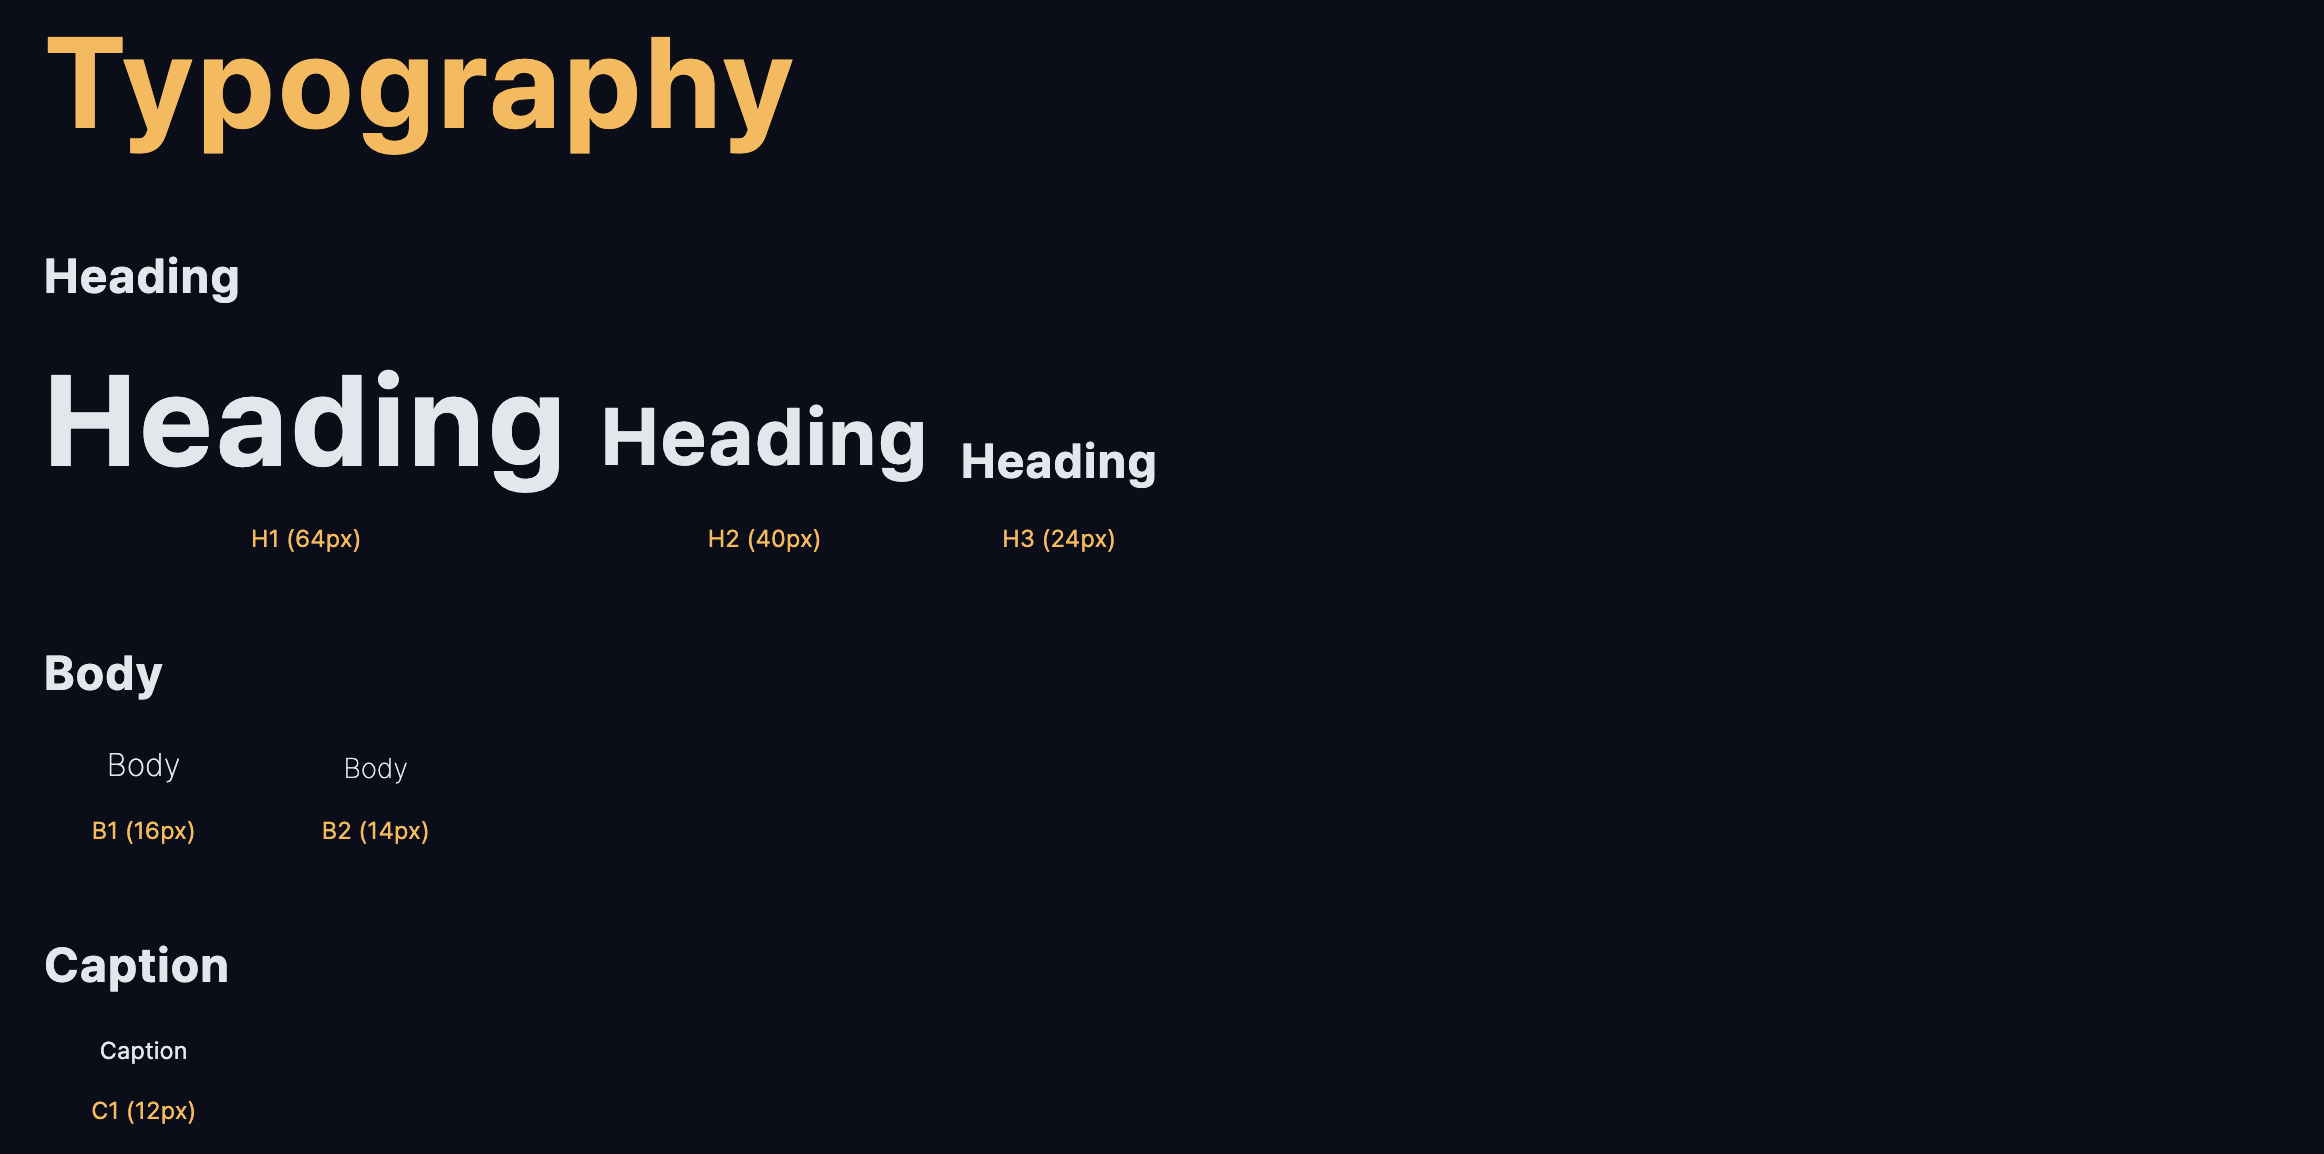
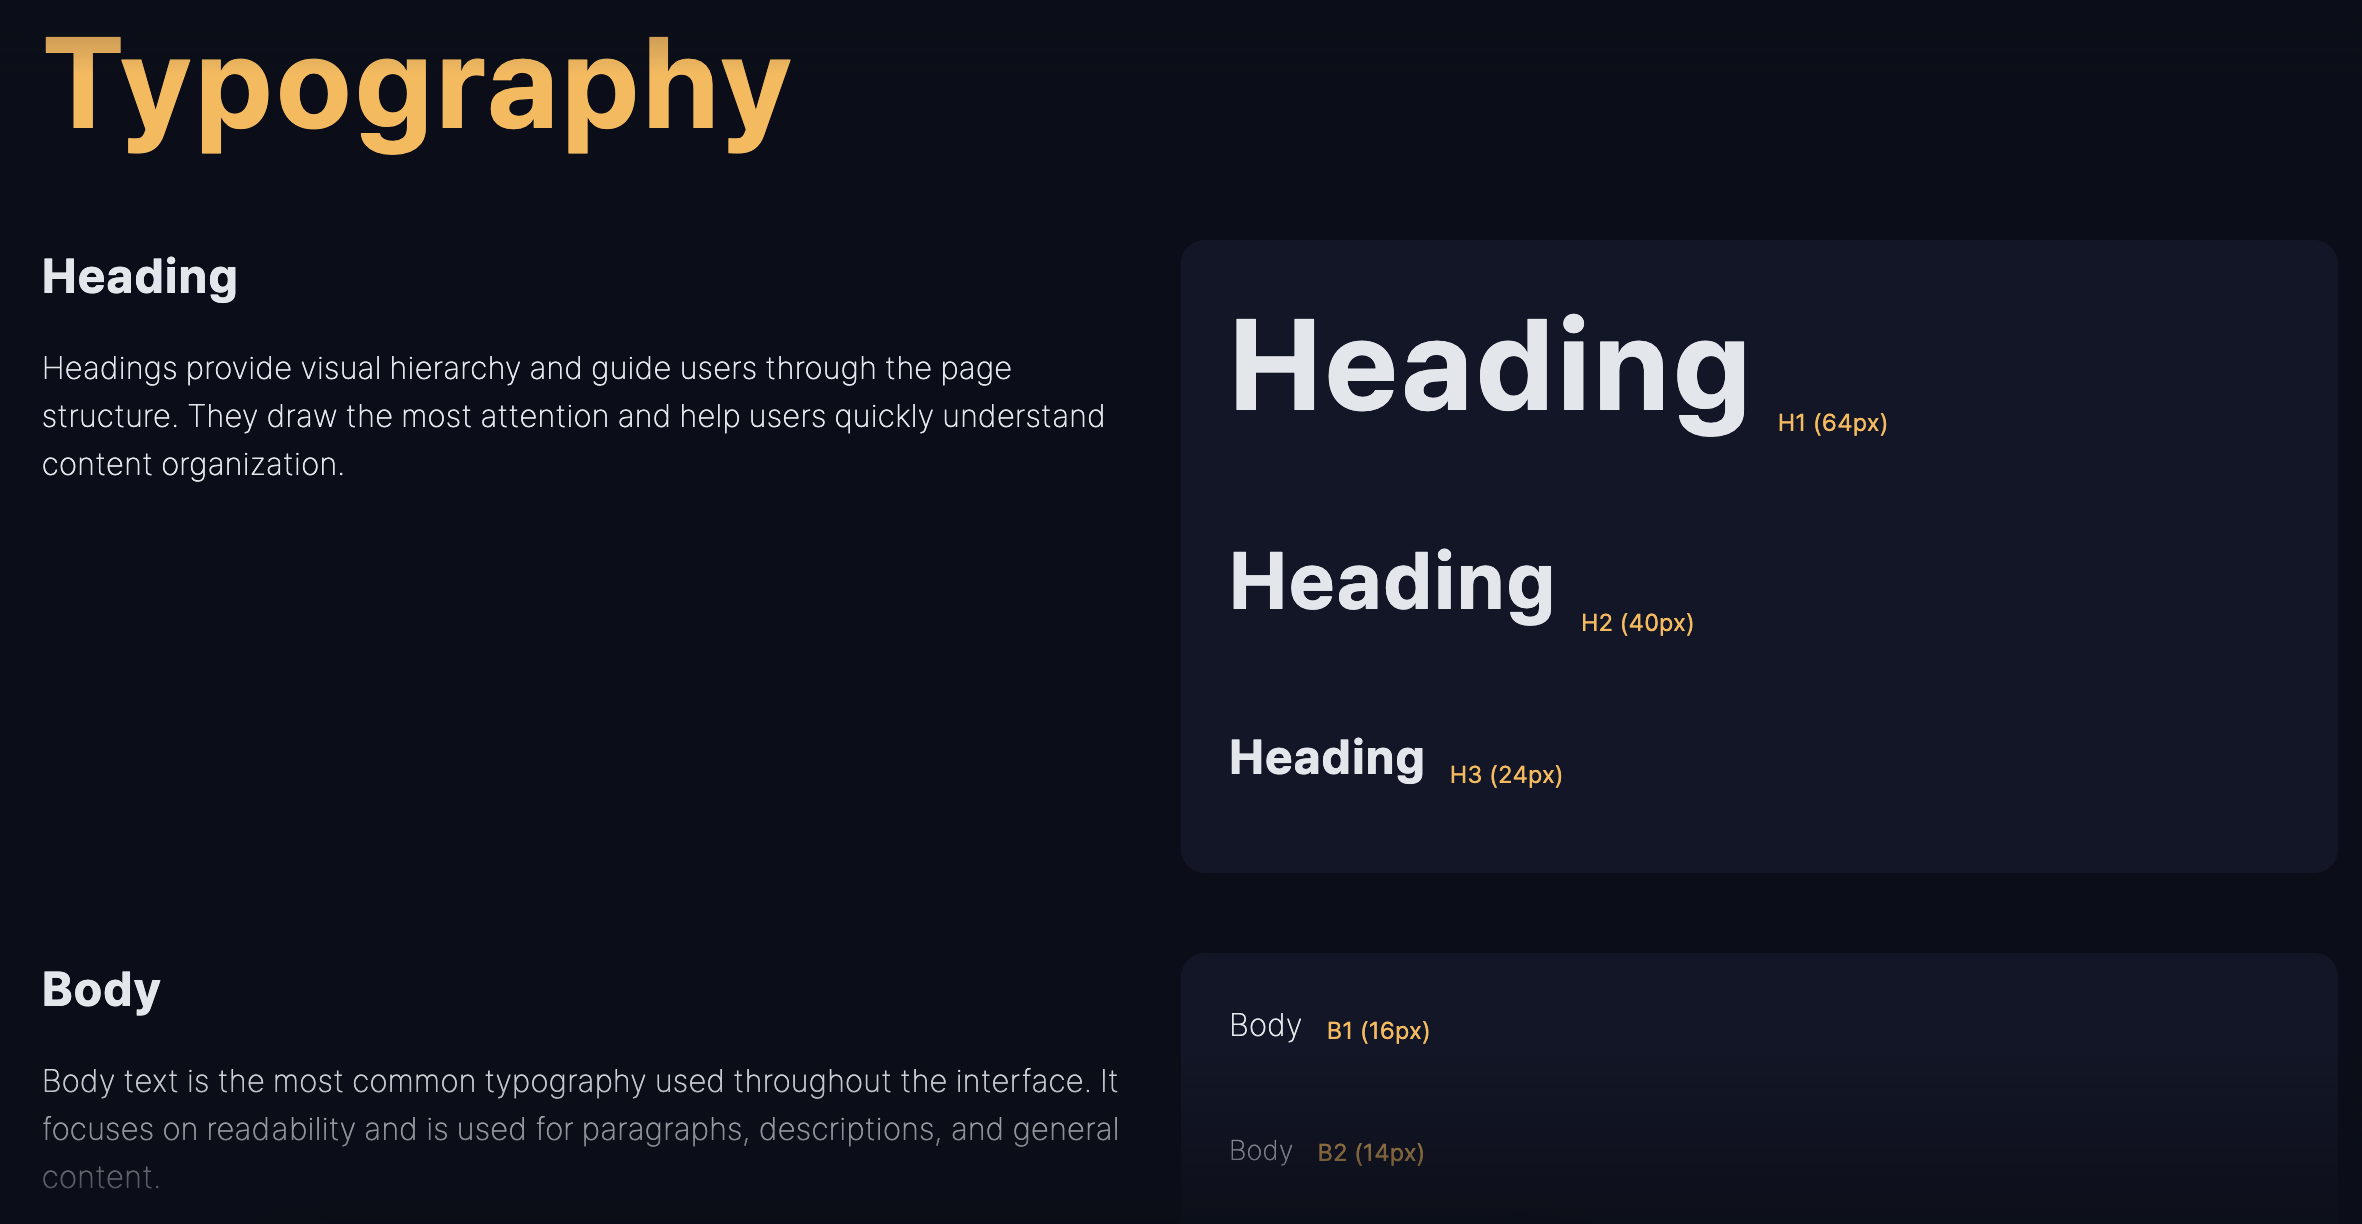
feat: add colors

diff --git a/src/components/foundation/colors/StatusGuide.tsx b/src/components/foundation/colors/StatusGuide.tsx
@@ -1,0 +1,62 @@
+import React from 'react';
+
+import FlexWrapper from '@/components/layout/FlexWrapper';
+
+import Typography from '@/components/foundation/Typography';
+
+const StatusGuide = () => {
+  const statusColors = {
+    danger: 'bg-danger',
+    warning: 'bg-warning',
+    info: 'bg-info',
+    success: 'bg-success',
+  };
+  return (
+    <FlexWrapper classes="size-full" direction="col" items="start">
+      <FlexWrapper classes="w-full" items="start" direction="col">
+        <Typography variant="H3">Status</Typography>
+        <Typography variant="B1">
+          These colors are used to visually communicate the system's state, feedback, or user
+          actions. They help users quickly understand the meaning or urgency of a message.
+        </Typography>
+        <FlexWrapper classes="w-full" items="start" direction="col" gap={2}>
+          <Typography variant="B1" classes="!text-danger">
+            Danger — Represents errors, failures, or destructive actions (e.g., deleting data,
+            system errors).
+          </Typography>
+          <Typography variant="B1" classes="!text-warning">
+            Warning — Signals caution or potential issues that require user attention but are not
+            critical.
+          </Typography>
+          <Typography variant="B1" classes="!text-info">
+            Info — Provides neutral or informational feedback to guide the user (e.g., updates,
+            notifications).
+          </Typography>
+          <Typography variant="B1" classes="!text-success">
+            Success — Indicates positive outcomes or successful operations (e.g., form submission,
+            completed tasks).
+          </Typography>
+        </FlexWrapper>
+      </FlexWrapper>
+      <FlexWrapper
+        items="start"
+        justify="start"
+        classes="bg-primary-900 p-10 w-full rounded-xl"
+        gap={6}
+      >
+        {Object.entries(statusColors).map(([key, value]) => (
+          <div key={key}>
+            <FlexWrapper classes="!gap-3" items="center" direction="col">
+              <span className={`size-10 ${value} rounded-md`} />
+              <Typography variant="C1" color="secondary">
+                {key}
+              </Typography>
+            </FlexWrapper>
+          </div>
+        ))}
+      </FlexWrapper>
+    </FlexWrapper>
+  );
+};
+
+export default StatusGuide;

diff --git a/src/components/foundation/colors/PrimaryGuide.tsx b/src/components/foundation/colors/PrimaryGuide.tsx
@@ -1,0 +1,57 @@
+import React from 'react';
+
+import FlexWrapper from '@/components/layout/FlexWrapper';
+
+import Typography from '@/components/foundation/Typography';
+
+const PrimaryGuide = () => {
+  const primaryColors = {
+    50: 'bg-primary-50',
+    100: 'bg-primary-100',
+    200: 'bg-primary-200',
+    300: 'bg-primary-300',
+    400: 'bg-primary-400',
+    500: 'bg-primary-500',
+    600: 'bg-primary-600',
+    700: 'bg-primary-700',
+    800: 'bg-primary-800',
+    900: 'bg-primary-900',
+    990: 'bg-primary-990',
+  };
+  return (
+    <FlexWrapper classes="size-full" direction="col" items="start">
+      <FlexWrapper classes="w-full" items="start" direction="col">
+        <Typography variant="H3">Primary</Typography>
+        <Typography variant="B1">
+          The primary color represents the brand's core identity. It's used for key interactive
+          elements such as buttons, active states, links, and highlights.
+        </Typography>
+        <FlexWrapper classes="w-full" items="start" direction="col" gap={2}>
+          <Typography variant="B1">- Main brand color</Typography>
+          <Typography variant="B1">- Primary buttons and links</Typography>
+          <Typography variant="B1">- Active states and focus indicators</Typography>
+          <Typography variant="B1">- Backgrounds for key sections</Typography>
+        </FlexWrapper>
+      </FlexWrapper>
+      <FlexWrapper
+        items="start"
+        justify="start"
+        classes="bg-primary-900 p-10 w-full rounded-xl"
+        gap={0}
+      >
+        {Object.entries(primaryColors).map(([key, value]) => (
+          <div key={key}>
+            <FlexWrapper classes="!gap-3" items="center" direction="col">
+              <span className={`size-10 ${value}`} />
+              <Typography variant="C1" color="secondary">
+                {key}
+              </Typography>
+            </FlexWrapper>
+          </div>
+        ))}
+      </FlexWrapper>
+    </FlexWrapper>
+  );
+};
+
+export default PrimaryGuide;

diff --git a/src/components/foundation/colors/SecondaryGuide.tsx b/src/components/foundation/colors/SecondaryGuide.tsx
@@ -1,0 +1,56 @@
+import React from 'react';
+
+import FlexWrapper from '@/components/layout/FlexWrapper';
+
+import Typography from '@/components/foundation/Typography';
+
+const SecondaryGuide = () => {
+  const secondaryColors = {
+    50: 'bg-secondary-50',
+    100: 'bg-secondary-100',
+    200: 'bg-secondary-200',
+    300: 'bg-secondary-300',
+    400: 'bg-secondary-400',
+    500: 'bg-secondary-500',
+    600: 'bg-secondary-600',
+    700: 'bg-secondary-700',
+    800: 'bg-secondary-800',
+    900: 'bg-secondary-900',
+  };
+  return (
+    <FlexWrapper classes="size-full" direction="col" items="start">
+      <FlexWrapper classes="w-full" items="start" direction="col">
+        <Typography variant="H3">Secondary</Typography>
+        <Typography variant="B1">
+          The secondary palette adds warmth and energy, supporting the primary tone. It's often used
+          for accent elements or secondary actions that require emphasis without overpowering the
+          primary color.
+        </Typography>
+        <FlexWrapper classes="w-full" items="start" direction="col" gap={2}>
+          <Typography variant="B1">- Secondary buttons or highlights</Typography>
+          <Typography variant="B1">- Backgrounds for featured content</Typography>
+          <Typography variant="B1">- Accents in charts, icons, or badges</Typography>
+        </FlexWrapper>
+      </FlexWrapper>
+      <FlexWrapper
+        items="start"
+        justify="start"
+        classes="bg-primary-900 p-10 w-full rounded-xl"
+        gap={0}
+      >
+        {Object.entries(secondaryColors).map(([key, value]) => (
+          <div key={key}>
+            <FlexWrapper classes="!gap-3" items="center" direction="col">
+              <span className={`size-10 ${value}`} />
+              <Typography variant="C1" color="secondary">
+                {key}
+              </Typography>
+            </FlexWrapper>
+          </div>
+        ))}
+      </FlexWrapper>
+    </FlexWrapper>
+  );
+};
+
+export default SecondaryGuide;

diff --git a/src/components/foundation/colors/GrayGuide.tsx b/src/components/foundation/colors/GrayGuide.tsx
@@ -1,0 +1,56 @@
+import React from 'react';
+
+import FlexWrapper from '@/components/layout/FlexWrapper';
+
+import Typography from '@/components/foundation/Typography';
+
+const GrayGuide = () => {
+  const grayColors = {
+    50: 'bg-gray-50',
+    100: 'bg-gray-100',
+    200: 'bg-gray-200',
+    300: 'bg-gray-300',
+    400: 'bg-gray-400',
+    500: 'bg-gray-500',
+    600: 'bg-gray-600',
+    700: 'bg-gray-700',
+    800: 'bg-gray-800',
+    900: 'bg-gray-900',
+  };
+  return (
+    <FlexWrapper classes="size-full" direction="col" items="start">
+      <FlexWrapper classes="w-full" items="start" direction="col">
+        <Typography variant="H3">Gray</Typography>
+        <Typography variant="B1">
+          The neutral palette provides the foundation for layout, typography, and UI structure. It's
+          used for backgrounds, borders, and text colors, ensuring balance and readability.
+        </Typography>
+        <FlexWrapper classes="w-full" items="start" direction="col" gap={2}>
+          <Typography variant="B1">- Background layers and surfaces</Typography>
+          <Typography variant="B1">- Text and icon colors</Typography>
+          <Typography variant="B1">- Divider lines and outlines</Typography>
+          <Typography variant="B1">- Disabled states</Typography>
+        </FlexWrapper>
+      </FlexWrapper>
+      <FlexWrapper
+        items="start"
+        justify="start"
+        classes="bg-primary-900 p-10 w-full rounded-xl"
+        gap={0}
+      >
+        {Object.entries(grayColors).map(([key, value]) => (
+          <div key={key}>
+            <FlexWrapper classes="!gap-3" items="center" direction="col">
+              <span className={`size-10 ${value}`} />
+              <Typography variant="C1" color="secondary">
+                {key}
+              </Typography>
+            </FlexWrapper>
+          </div>
+        ))}
+      </FlexWrapper>
+    </FlexWrapper>
+  );
+};
+
+export default GrayGuide;

diff --git a/src/constants/common.ts b/src/constants/common.ts
@@ -11,9 +11,8 @@ export const componentsMenus = [
     label: 'Foundation',
     href: null,
     items: [
-      // { id: 'colors', label: 'Colors', href: '/components/foundation/colors' },
+      { id: 'colors', label: 'Colors', href: '/components/foundation/colors' },
       { id: 'typography', label: 'Typography', href: '/components/foundation/typography' },
-      // { id: 'icons', label: 'Icons', href: '/components/foundation/icons' },
       // { id: 'grid', label: 'Grid', href: '/components/foundation/grid' },
       // { id: 'shadow', label: 'Shadow', href: '/components/foundation/shadow' },
       // { id: 'motion', label: 'Motion', href: '/components/foundation/motion' },
@@ -61,7 +60,7 @@ export const componentsMenus = [
       // { id: 'link', label: 'Link', href: '/components/common/link' },
       // { id: 'loading', label: 'Loading', href: '/components/common/loading' },
       // { id: 'pagination', label: 'Pagination', href: '/components/common/pagination' },
-      // { id: 'radioButton', label: 'RadioButton', href: '/components/common/radioButton' },
+      { id: 'radioButton', label: 'RadioButton', href: '/components/common/radioButton' },
       // { id: 'select', label: 'Select', href: '/components/common/select' },
       // { id: 'skeleton', label: 'Skeleton', href: '/components/common/skeleton' },
       // { id: 'slider', label: 'Slider', href: '/components/common/slider' },

diff --git a/src/app/components/foundation/colors/page.tsx b/src/app/components/foundation/colors/page.tsx
@@ -1,0 +1,32 @@
+import Typography from '@/components/foundation/Typography';
+import PrimaryGuide from '@/components/foundation/colors/PrimaryGuide';
+import SecondaryGuide from '@/components/foundation/colors/SecondaryGuide';
+import GrayGuide from '@/components/foundation/colors/GrayGuide';
+import BreadCrumb from '@/components/layout/BreadCrumb';
+import FlexWrapper from '@/components/layout/FlexWrapper';
+import StatusGuide from '@/components/foundation/colors/StatusGuide';
+
+const ComponenColorsPage = () => {
+  const breadcrumbItems = [
+    { label: 'Home', href: '/' },
+    { label: 'Components', href: '/components' },
+    { label: 'Colors', href: '/components/foundation/colors' },
+  ];
+  return (
+    <div className="flex size-full flex-col items-start gap-4 px-4 pb-[100px]">
+      <BreadCrumb items={breadcrumbItems} />
+      <FlexWrapper classes="w-full" justify="center">
+        <FlexWrapper classes="w-full !gap-10" items="start" direction="col">
+          <Typography variant="H1" color="secondary">
+            Colors
+          </Typography>
+          <PrimaryGuide />
+          <SecondaryGuide />
+          <GrayGuide />
+          <StatusGuide />
+        </FlexWrapper>
+      </FlexWrapper>
+    </div>
+  );
+};
+export default ComponenColorsPage;

diff --git a/src/components/foundation/typography/CaptionGuide.tsx b/src/components/foundation/typography/CaptionGuide.tsx
@@ -10,7 +10,7 @@ const CaptionGuide = () => {
     value: string;
   }[] = [{ id: 'C1', value: 'C1 (12px)' }];
   return (
-    <FlexWrapper classes="size-full md:flex-row" direction="col" items="start">
+    <FlexWrapper classes="size-full lg:flex-row" direction="col" items="start">
       <FlexWrapper classes="w-full" items="start" direction="col">
         <Typography variant="H3">Caption</Typography>
         <Typography variant="B1">

diff --git a/src/components/foundation/typography/HeadingGuide.tsx b/src/components/foundation/typography/HeadingGuide.tsx
@@ -14,7 +14,7 @@ const HeadingGuide = () => {
     { id: 'H3', value: 'H3 (24px)' },
   ];
   return (
-    <FlexWrapper classes="size-full md:flex-row" direction="col" items="start">
+    <FlexWrapper classes="size-full lg:flex-row" direction="col" items="start">
       <FlexWrapper classes="w-full" items="start" direction="col">
         <Typography variant="H3">Heading</Typography>
         <Typography variant="B1">

diff --git a/src/components/foundation/typography/BodyGuide.tsx b/src/components/foundation/typography/BodyGuide.tsx
@@ -13,7 +13,7 @@ const BodyGuide = () => {
     { id: 'B2', value: 'B2 (14px)' },
   ];
   return (
-    <FlexWrapper classes="size-full md:flex-row" direction="col" items="start">
+    <FlexWrapper classes="size-full lg:flex-row" direction="col" items="start">
       <FlexWrapper classes="w-full" items="start" direction="col">
         <Typography variant="H3">Body</Typography>
         <Typography variant="B1">
